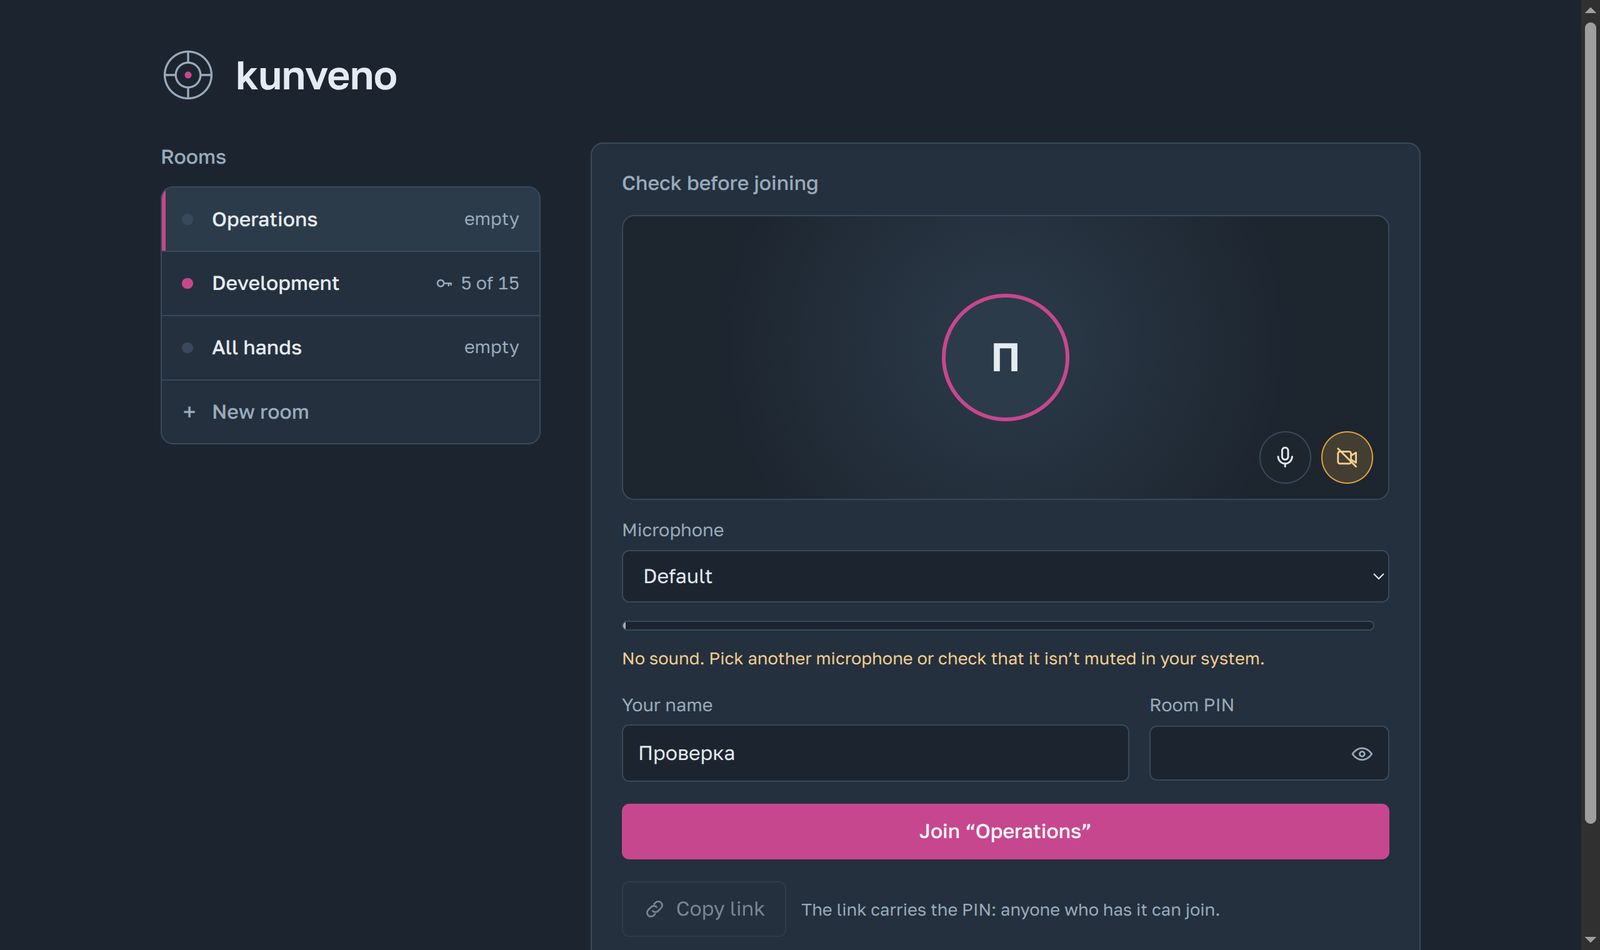
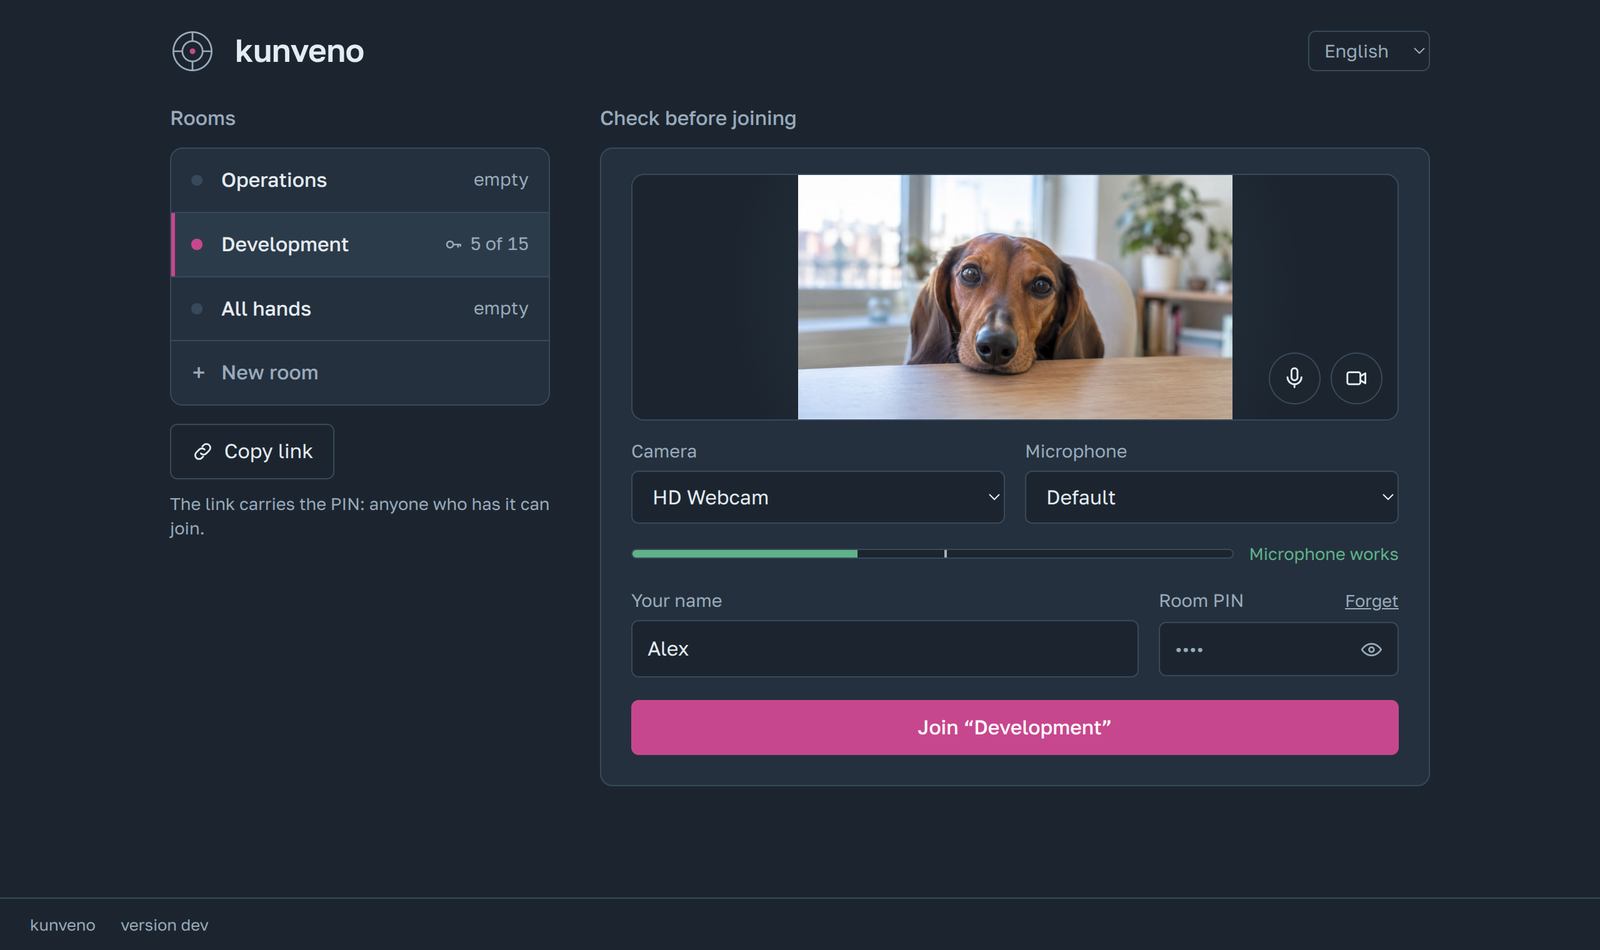
docs: screenshots with cameras on the new interface; a repeatable release job
The README screenshots show the v0.2.3 lobby and a room with cameras,
taken from a local run with loadgen's new -camera flag; the READMEs
describe -camera and -names. The release job uploads the archive to an
existing release instead of failing, so re-running a tag's workflow
stays green.

diff --git a/README.md b/README.md
@@ -34,7 +34,7 @@ Licensed under the GNU Affero General Public License v3.0 only; a commercial lic
 - Protection against PIN guessing, Prometheus metrics with a Grafana dashboard, logs in the host
   journal.
 
-![A room with six participants](docs/images/room.png)
+![A room with six participants, cameras on](docs/images/room.png)
 
 ## Setup
 
@@ -200,7 +200,8 @@ cd web && npm run check                                          # svelte-check
 Running locally: copy `deploy/kunveno/config.yaml`, set `media.advertise_ip` to the machine's LAN
 address (browsers gather no loopback candidates, so `127.0.0.1` gives no media), start
 `bin/kunveno-server -config <file>`, then `cd web && npm run dev` (Vite proxies `/ws` and `/api/`
-to `127.0.0.1:8080`). `go run ./tools/loadgen -n 14 -duration 30s` adds synthetic participants. Before a release, walk
+to `127.0.0.1:8080`). `go run ./tools/loadgen -n 14 -duration 30s` adds synthetic participants (`-camera <picture or
+directory>` gives them cameras showing still pictures, `-names a,b,c` names them; needs ffmpeg). Before a release, walk
 through the manual checks in [docs/test-matrix.md](docs/test-matrix.md).
 
 ## Configuration

diff --git a/README.ru.md b/README.ru.md
@@ -203,7 +203,8 @@ cd web && npm run check                                          # svelte-check
 машины в локальной сети (браузеры не собирают кандидатов на loopback, поэтому с `127.0.0.1` звук и
 видео не пойдут), запустите `bin/kunveno-server -config <файл>`, затем `cd web && npm run dev`
 (Vite проксирует `/ws` и `/api/` на `127.0.0.1:8080`). `go run ./tools/loadgen -n 14 -duration 30s`
-добавляет синтетических участников. Перед выпуском пройдите ручные проверки из
+добавляет синтетических участников (`-camera <картинка или каталог>` даёт им камеры с
+неподвижной картинкой, `-names a,b,c` задаёт имена; нужен ffmpeg). Перед выпуском пройдите ручные проверки из
 [docs/test-matrix.md](docs/test-matrix.md).
 
 ## Конфигурация

diff --git a/README.es.md b/README.es.md
@@ -208,7 +208,8 @@ Ejecución local: copia `deploy/kunveno/config.yaml`, pon en `media.advertise_ip
 máquina en la red local (los navegadores no recogen candidatos de loopback, así que con `127.0.0.1`
 no hay audio ni vídeo), arranca `bin/kunveno-server -config <archivo>` y luego
 `cd web && npm run dev` (Vite redirige `/ws` y `/api/` a `127.0.0.1:8080`).
-`go run ./tools/loadgen -n 14 -duration 30s` añade participantes sintéticos. Antes de una versión,
+`go run ./tools/loadgen -n 14 -duration 30s` añade participantes sintéticos (`-camera <imagen o
+directorio>` les da cámaras con una imagen fija, `-names a,b,c` les pone nombre; requiere ffmpeg). Antes de una versión,
 repasa las comprobaciones manuales de [docs/test-matrix.md](docs/test-matrix.md).
 
 ## Configuración
